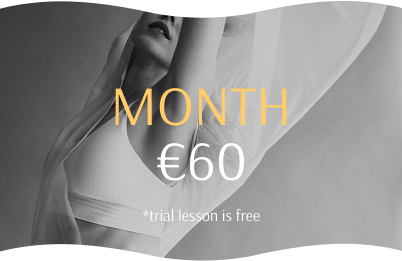
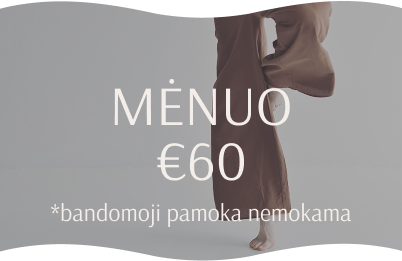
Contacts page

diff --git a/empathy-web/src/atomic/molecules/HeroImage.svelte b/empathy-web/src/atomic/molecules/HeroImage.svelte
@@ -10,6 +10,9 @@
         separator?: boolean
         animationDelay?: number
         marginTop?: number
+        marginBot?: number
+        aspectRatio?: string
+        grow?: number
     }
 
     let {
@@ -21,6 +24,9 @@
         separator,
         animationDelay,
         marginTop,
+        marginBot,
+        aspectRatio,
+        grow,
     }: Props = $props();
 </script>
 
@@ -53,8 +59,7 @@
         background-size: cover;
         overflow: hidden;
 
-        flex-grow: 1;
-        margin-top: -4vh;
+        margin-top: -3vh;
 
         display: flex;
         align-items: center;
@@ -79,7 +84,7 @@
         /*transform: translateX(-100%);*/
         filter: blur(10px);
         /*opacity: 0;*/
-        animation: unblur 1s;
+        animation: unblur 0.5s;
         animation-fill-mode: forwards;
     }
 
@@ -108,7 +113,10 @@
         background-image: url(./{imageUrl});
         animation-delay: {animationDelay}ms;
         margin-top: {marginTop}em;
-    "
+        margin-bot: {marginBot}em;
+        aspect-ratio: {aspectRatio};
+        flex-grow: {grow}"
+
         class:separator={separator}
         class:animate="{animationDelay}"
         class:side-text={sideText}>

diff --git a/empathy-web/src/atomic/molecules/ContactsList.svelte b/empathy-web/src/atomic/molecules/ContactsList.svelte
@@ -1,0 +1,46 @@
+<script lang="ts">
+    import Label from "../atoms/Text/Label.svelte";
+</script>
+
+<style>
+    div {
+        display: flex;
+        flex-direction: column;
+        gap: 1em;
+        line-height: 1.2em;
+        padding: 0 3em;
+    }
+
+    span {
+        display: flex;
+        flex-direction: row;
+        align-items: center;
+        gap: 0.5em;
+    }
+
+    img {
+        height: 26px;
+        width: 26px;
+    }
+</style>
+
+<div>
+    <a href="https://maps.app.goo.gl/7QxLv15fd9TiXfL66">
+        <span>
+            <img src="/icons/location.png" alt="location"/>
+            <Label size={20}>Eitminų g. 20</Label>
+        </span>
+    </a>
+    <a href="tel:(0-628) 19 320">
+        <span>
+            <img src="/icons/phone.png" alt="location"/>
+            <Label size={20}>(0-628) 19 320</Label>
+        </span>
+    </a>
+    <a href="mailto:email@gmail.com">
+        <span>
+            <img src="/icons/mail.png" alt="location"/>
+            <Label size={20}>email@gmail.com</Label>
+        </span>
+    </a>
+</div>

diff --git a/empathy-web/src/routes/+page.svelte b/empathy-web/src/routes/+page.svelte
@@ -9,8 +9,8 @@
 </style>
 
 <div class="flex flex-col w-full">
-    <HeroImage title="APIE MUS" imageUrl="./home/about.png" href="./about" animationDelay={100}/>
-    <HeroImage title="TVARKARAŠTIS" imageUrl="./home/schedule.png" href="./schedule" animationDelay={200}/>
-    <HeroImage title="KAINOS" imageUrl="./home/prices.png" href="./prices" animationDelay={300}/>
-    <HeroImage title="PASLAUGOS" imageUrl="./home/services.png" href="./services" animationDelay={400}/>
+    <HeroImage title="APIE MUS" imageUrl="./home/about.png" href="./about" animationDelay={100} grow={1}/>
+    <HeroImage title="TVARKARAŠTIS" imageUrl="./home/schedule.png" href="./schedule" animationDelay={200} grow={1}/>
+    <HeroImage title="KAINOS" imageUrl="./home/prices.png" href="./prices" animationDelay={300} grow={1}/>
+    <HeroImage title="KONTAKTAI" imageUrl="./home/services.png" href="./contacts" animationDelay={400} grow={1}/>
 </div>

diff --git a/empathy-web/src/routes/contacts/+page.svelte b/empathy-web/src/routes/contacts/+page.svelte
@@ -3,12 +3,28 @@
     import Heading from "../../atomic/atoms/Text/Heading.svelte";
     import TextContainer from "../../atomic/molecules/TextContainer.svelte";
     import Paragraph from "../../atomic/atoms/Text/Paragraph.svelte";
+    import ContactsList from "../../atomic/molecules/ContactsList.svelte";
+    import TextSocialLinks from "../../atomic/molecules/TextSocialLinks.svelte";
 </script>
 
 <style>
-
+    div{
+        height: 105%;
+    }
 </style>
 
-<div class="flex flex-col w-full">
-    Contacts
+<div class="flex flex-col w-full justify-between">
+    <HeroImage
+            imageUrl="contacts/map.png"
+            aspectRatio="395 / 261"
+            marginTop={-4}
+            href="https://maps.app.goo.gl/7QxLv15fd9TiXfL66"/>
+
+
+    <ContactsList/>
+    <TextSocialLinks/>
+
+    <HeroImage
+            imageUrl="contacts/enterance.png"
+            aspectRatio="402 / 265"/>
 </div>

diff --git a/empathy-web/src/atomic/molecules/TextSocialLinks.svelte b/empathy-web/src/atomic/molecules/TextSocialLinks.svelte
@@ -1,0 +1,27 @@
+<script lang="ts">
+
+    import Label from "../atoms/Text/Label.svelte";
+</script>
+
+<style>
+
+    div {
+        display: flex;
+        flex-direction: row;
+        align-items: center;
+        justify-content: center;
+        gap: 3em;
+    }
+</style>
+
+<div>
+    <a href="https://www.instagram.com/vdoh.dance/">
+        <Label size={12}>INSTAGRAM</Label>
+    </a>
+    <a href="https://www.facebook.com/vdoh.dance">
+        <Label size={12}>FACEBOOK</Label>
+    </a>
+    <a href="https://www.youtube.com/@vdohdance">
+        <Label size={12}>YOUTUBE</Label>
+    </a>
+</div>

diff --git a/empathy-web/src/routes/prices/+page.svelte b/empathy-web/src/routes/prices/+page.svelte
@@ -12,10 +12,7 @@
 </style>
 
 <div class="flex flex-col w-full">
-    <HeroImage title="Viena Pamoka"
-               imageUrl="/prices/one-lesson.png"/>
-    <HeroImage title="Month"
-               imageUrl="/prices/month.png"/>
-    <HeroImage title="Individual"
-               imageUrl="/prices/individual.png"/>
+    <HeroImage grow={1} imageUrl="prices/one-lesson.png"/>
+    <HeroImage grow={1} imageUrl="prices/month.png"/>
+    <HeroImage grow={1} imageUrl="prices/individual.png"/>
 </div>

diff --git a/empathy-web/src/routes/+layout.svelte b/empathy-web/src/routes/+layout.svelte
@@ -12,7 +12,9 @@
     const noScrollPages = [
         base,
         base + '/prices',
-        base + '/schedule'
+        base + '/schedule',
+        base + '/services',
+        base + '/contacts',
     ];
 
     afterNavigate(() => {
@@ -31,7 +33,7 @@
 
     main {
         height: auto;
-        margin-top: 14dvh;
+        margin-top: 13dvh;
         margin-bottom: -3dvh;
     }
 
